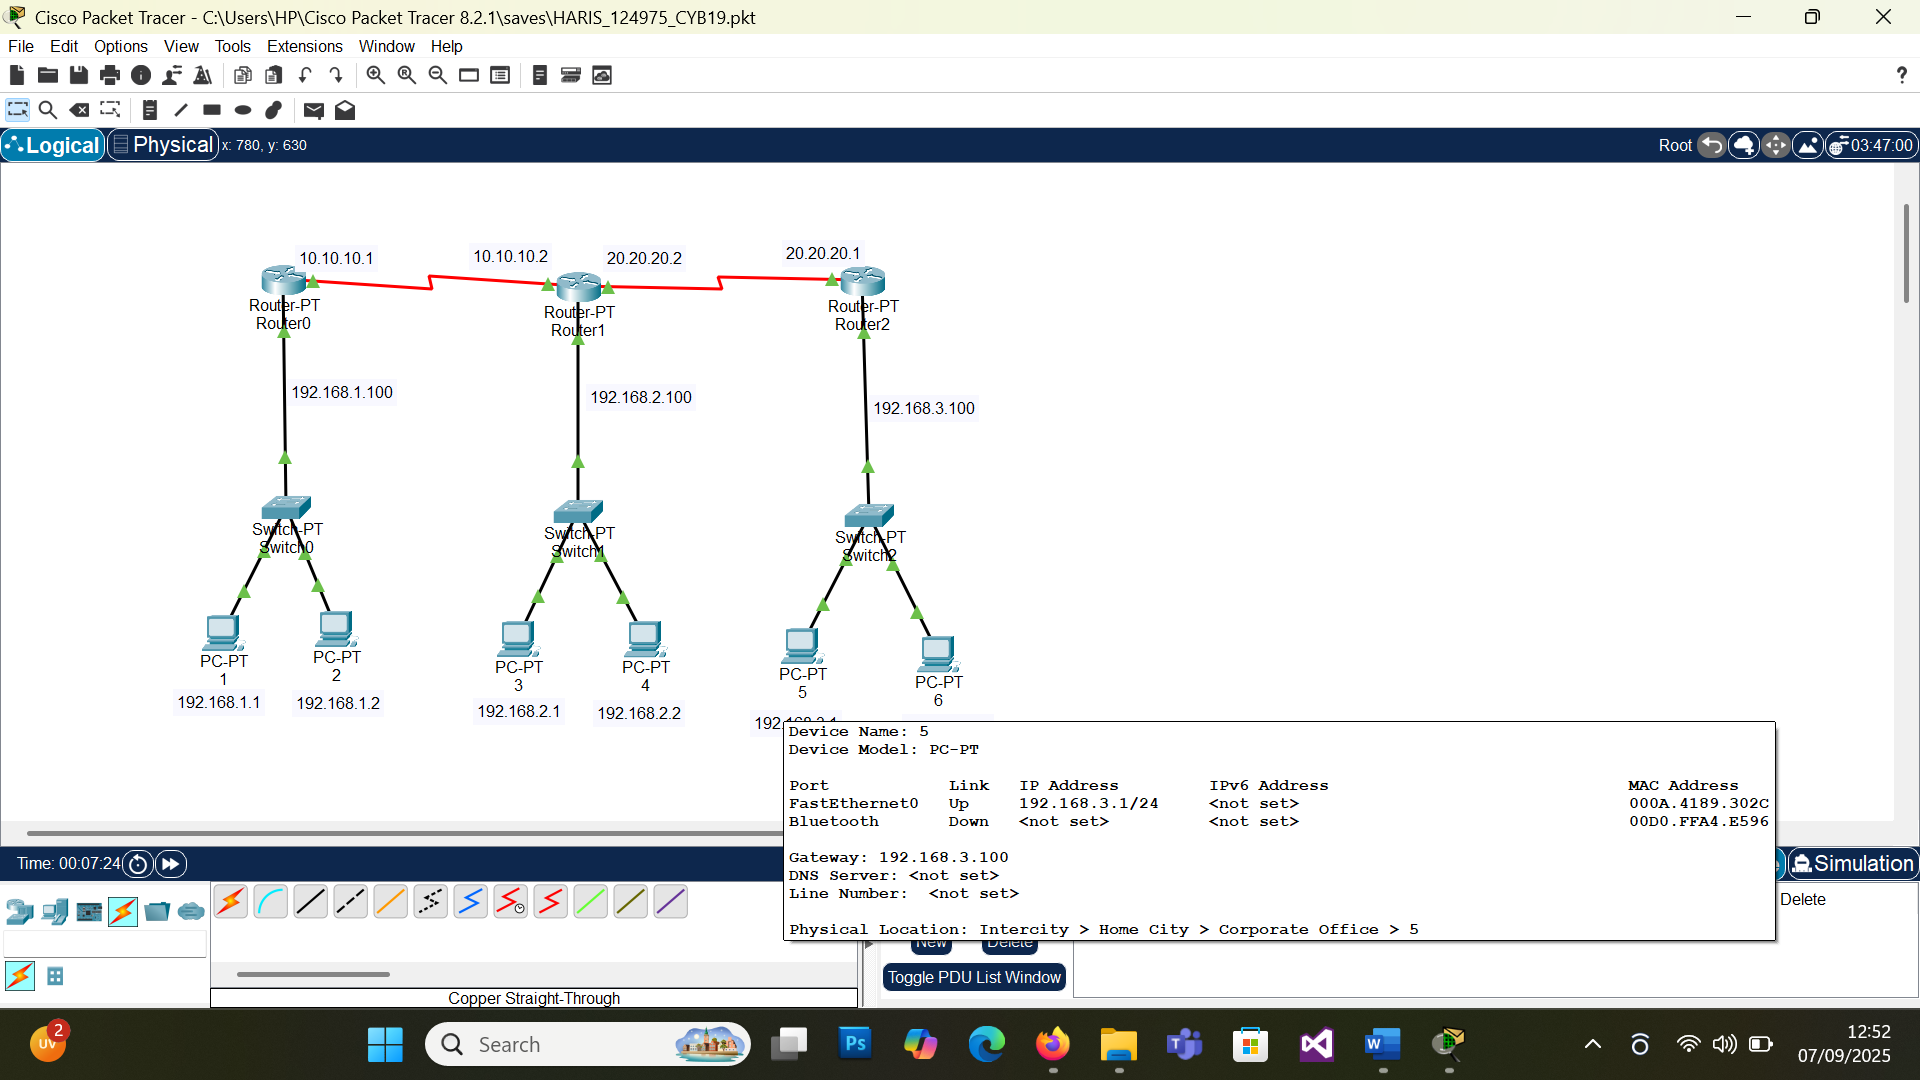
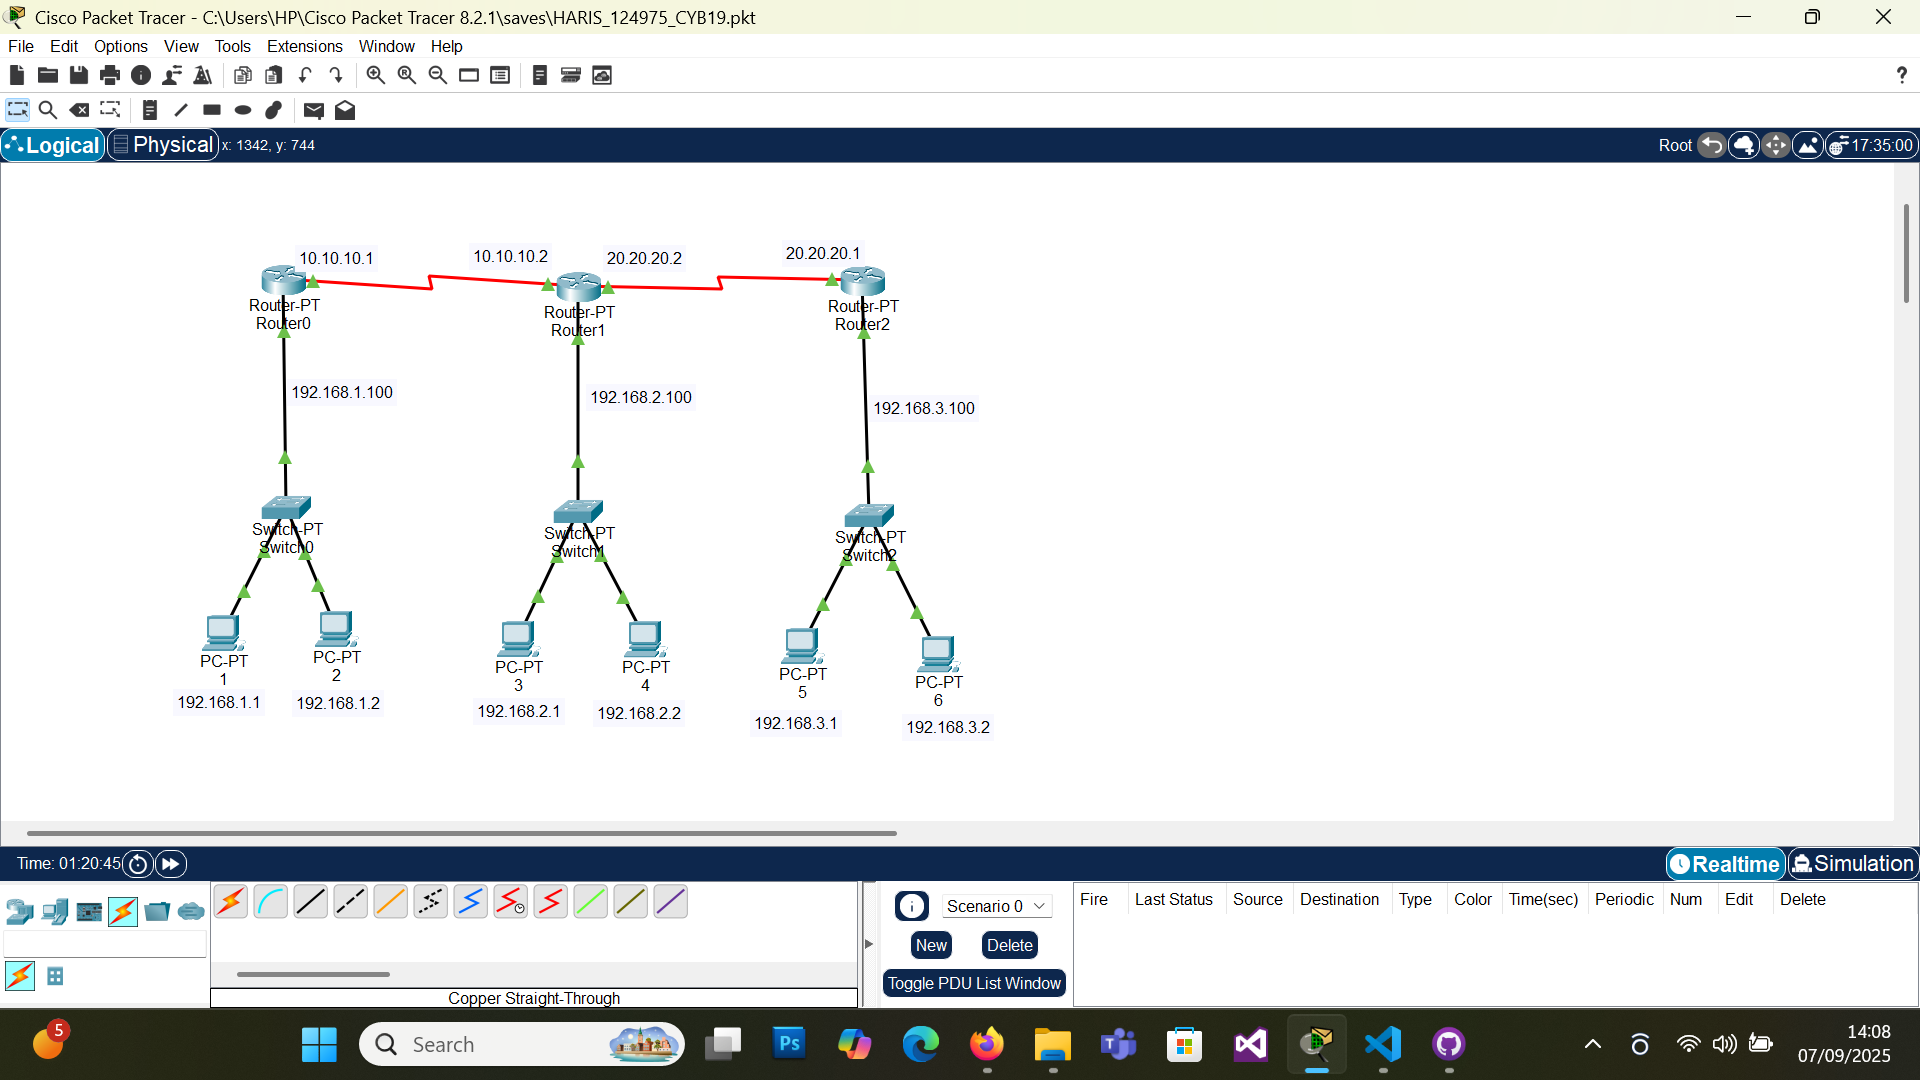
Update

diff --git a/Konfigurasi Static Routing dengan 3 Router/static-routing-3router.md b/Konfigurasi Static Routing dengan 3 Router/static-routing-3router.md
@@ -67,12 +67,12 @@ Router(config)# ip route 192.168.3.0 255.255.255.0 10.10.10.2
 ```
 <p align="center">
   <img src="images/h2.png" alt="Gambar 2. Konfigurasi Router0 Fa0/0" width="400"/>
-  <img src="images/h3.png" alt="Gambar 3. Konfigurasi Router0 S0/0" width="400"/>
+  <img src="images/h3.png" alt="Gambar 3. Konfigurasi Router0 S2/0" width="400"/>
 </p>
 
 <p align="center">
   <b>Gambar 2.</b> Konfigurasi Router0 Fa0/0 &nbsp;&nbsp;&nbsp;&nbsp;
-  <b>Gambar 3.</b> Konfigurasi Router0 S0/0
+  <b>Gambar 3.</b> Konfigurasi Router0 S2/0
 </p>
 
 ```
@@ -95,12 +95,12 @@ Router(config)# ip route 192.168.3.0 255.255.255.0 20.20.20.1
 ```
 <p align="center">
   <img src="images/h4.png" alt="Gambar 4. Konfigurasi Router1 Fa0/0" width="400"/>
-  <img src="images/h5.png" alt="Gambar 5. Konfigurasi Router1 S0/0" width="400"/>
+  <img src="images/h5.png" alt="Gambar 5. Konfigurasi Router1 S2/0" width="400"/>
 </p>
 
 <p align="center">
   <b>Gambar 4.</b> Konfigurasi Router1 Fa0/0 &nbsp;&nbsp;&nbsp;&nbsp;
-  <b>Gambar 5.</b> Konfigurasi Router1 S0/0
+  <b>Gambar 5.</b> Konfigurasi Router1 S2/0
 </p>
 ```
 
@@ -120,12 +120,12 @@ Router(config)# ip route 192.168.2.0 255.255.255.0 20.20.20.2
 ```
 <p align="center">
   <img src="images/h6.png" alt="Gambar 6. Konfigurasi Router2 Fa0/0" width="400"/>
-  <img src="images/h7.png" alt="Gambar 7. Konfigurasi Router2 S0/0" width="400"/>
+  <img src="images/h7.png" alt="Gambar 7. Konfigurasi Router2 S2/0" width="400"/>
 </p>
 
 <p align="center">
   <b>Gambar 6.</b> Konfigurasi Router2 Fa0/0 &nbsp;&nbsp;&nbsp;&nbsp;
-  <b>Gambar 7.</b> Konfigurasi Router2 S0/0
+  <b>Gambar 7.</b> Konfigurasi Router2 S2/0
 </p>
 
 ---
@@ -150,8 +150,8 @@ Router(config)# ip route 192.168.2.0 255.255.255.0 20.20.20.2
 📍 **Subnet 2 – 192.168.2.0/24**  
 | Perangkat | IP Address   | Subnet Mask     | Default Gateway |
 |-----------|--------------|-----------------|-----------------|
-| PC1       | 192.168.2.1  | 255.255.255.0   | 192.168.2.100   |
-| PC2       | 192.168.2.2  | 255.255.255.0   | 192.168.2.100   |
+| PC3       | 192.168.2.1  | 255.255.255.0   | 192.168.2.100   |
+| PC4       | 192.168.2.2  | 255.255.255.0   | 192.168.2.100   |
 
 <p align="center">
   <img src="images/h10.png" alt="Gambar 10. Konfigurasi IP PC3" width="400"/>
@@ -166,8 +166,8 @@ Router(config)# ip route 192.168.2.0 255.255.255.0 20.20.20.2
 📍 **Subnet 3 – 192.168.3.0/24**  
 | Perangkat | IP Address   | Subnet Mask     | Default Gateway |
 |-----------|--------------|-----------------|-----------------|
-| PC1       | 192.168.3.1  | 255.255.255.0   | 192.168.3.100   |
-| PC2       | 192.168.3.2  | 255.255.255.0   | 192.168.3.100   |
+| PC5       | 192.168.3.1  | 255.255.255.0   | 192.168.3.100   |
+| PC6       | 192.168.3.2  | 255.255.255.0   | 192.168.3.100   |
 
 <p align="center">
   <img src="images/h12.png" alt="Gambar 12. Konfigurasi IP PC5" width="400"/>
